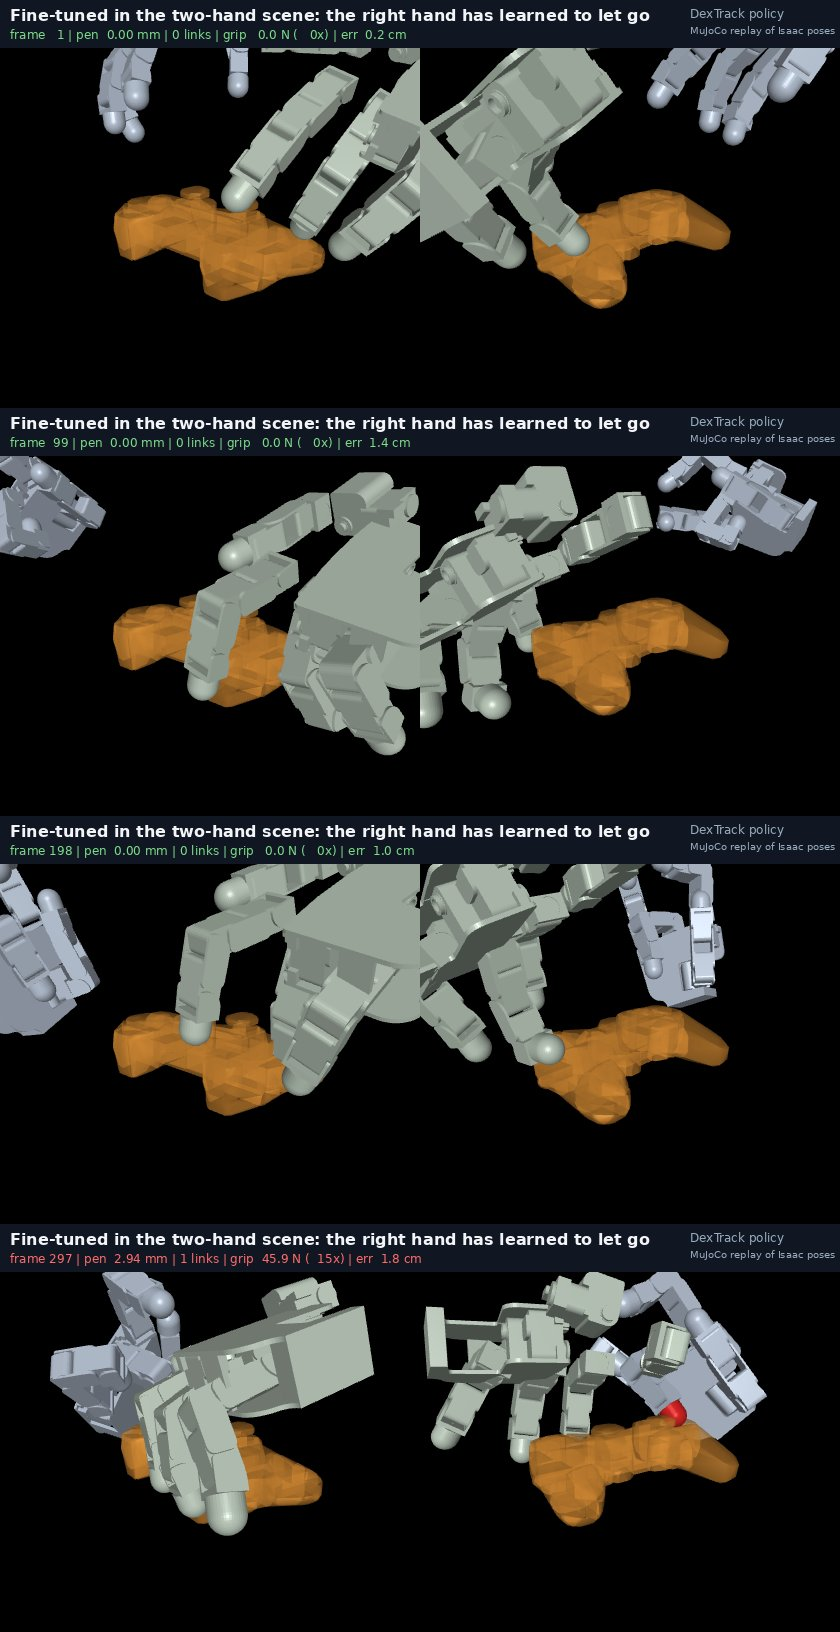
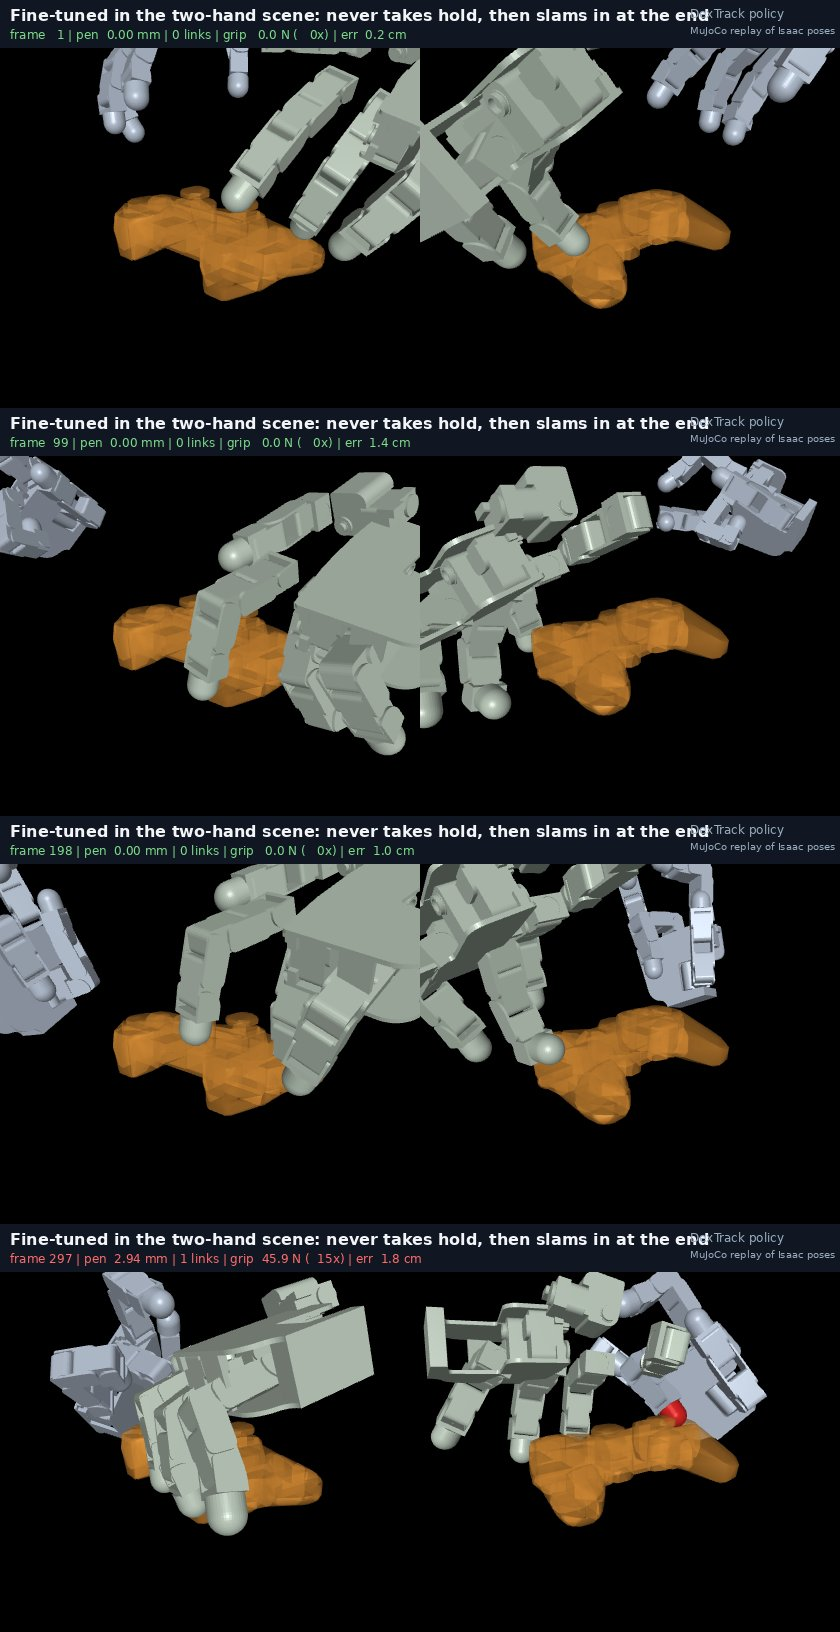
correct my own caption: the fine-tuned right hand never takes hold rather than grasping and releasing; its 23 contact frames are the last 8 percent of the clip at 447 N, and the generalist it started from is in contact in every quarter

diff --git a/docs/STAGE2.md b/docs/STAGE2.md
@@ -651,11 +651,16 @@ adapts to a second hand (`dextrack/runs/gamecontroller_bimanual.json`):
 | generalist, unchanged | 0.81 mm | 0.24 mm | 17.0x | 7.48 cm | 16 of 16 |
 | fine-tuned in the two-hand scene | 0.17 mm | 0.57 mm | 3.0x | 2.28 cm | 16 of 16 |
 
-Every column improves and the reading is wrong. **The policy learned to let
-go.** Its right hand touches the object on 23 of 299 frames, against 152 for
-the generalist it started from, and carries 0 N of grip through the middle of
-the clip (`figures/bimanual_isaac_gc_finetuned.gif`: the left hand holds the
-controller, the right sits beside it). Tracking error falls because the left
+Every column improves and the reading is wrong. **The policy stopped taking
+hold at all.** Its right hand touches the object on 23 of 299 frames against
+152 for the generalist it started from, and those 23 are not spread through
+the clip: they are frames 275 to 297, the last eight per cent, arriving at
+447 N. For the first three quarters there is no contact whatsoever
+(`figures/bimanual_isaac_gc_finetuned.gif`: the left hand holds the
+controller, the right sits beside it). The generalist it started from grabs
+at frame 11 and is in contact somewhere in every quarter. So this is not a
+hand that grasps and releases; it is a hand that never closes, then collides
+with the object as the clip ends. Tracking error falls because the left
 hand, under position control at the right hand's own gains, is close to a
 kinematic mover and carries the object along the reference more accurately
 than the policy can. Once that is true, the policy's best move is to stop

diff --git a/README.md b/README.md
@@ -114,9 +114,10 @@ object held in all sixteen environments and drops the right hand's
 interpenetration from 1.21 mm to 0.74 mm, because the load is shared.
 
 Training a policy inside that scene then produced the session's sharpest
-negative: every metric improved because **the right hand learned to let go**,
-touching the object on 23 frames of 299 against the generalist's 152, while
-the position-driven left hand carried it
+negative: every metric improved because **the right hand stopped taking hold
+at all**, touching the object on 23 frames of 299 against the generalist's
+152, and those 23 are the last eight per cent of the clip rather than a grasp
+that slipped, while the position-driven left hand carried it throughout
 ([the render](figures/bimanual_isaac_gc_finetuned.gif)). An objective that
 only asks where the object ends up is satisfied by a hand that does nothing,
 whenever something else in the scene will do the work. A partner driven

diff --git a/NOTES.md b/NOTES.md
@@ -5637,3 +5637,13 @@ object better than the policy can, so the policy withdraws. Fourth time a
 number improved because a hand let go. Fixes: soften the left drive, reward
 the right hand's share of the load, or make both hands policy-controlled.
 
+### Correction to the caption above (2026-09-18)
+"Learned to let go" was my wording and it is wrong: it implies a grasp that
+was released. The contact timeline says otherwise -- fine-tuned contact is
+frames 275-297 ONLY (last 8 %), peak 447 N, nothing at all for the first
+three quarters; the generalist it started from first touches at frame 11 and
+has contact in every quarter (152/299, peak 260 N). The policy never closes
+on the object; it collides with it as the clip ends. Figure re-rendered with
+an accurate title. Check a contact TIMELINE, not a contact COUNT, before
+describing what a policy did.
+
